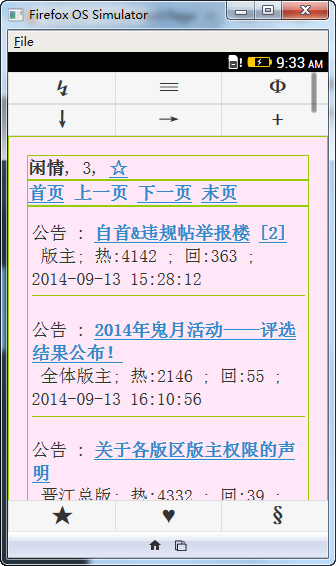
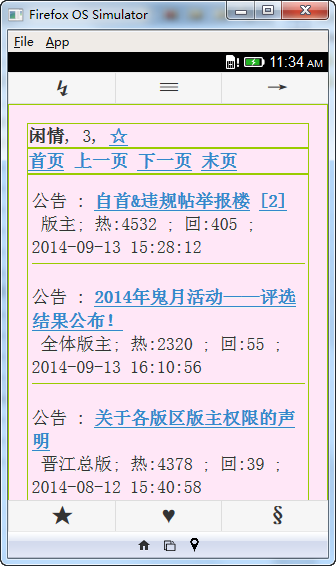
board swipeleft / swiperight

diff --git a/hjj/js/jquery.mobile-events.min.js b/hjj/js/jquery.mobile-events.min.js
@@ -1,0 +1,1 @@
+(function(e){function d(){var e=o();if(e!==u){u=e;i.trigger("orientationchange")}}function E(t,n,r,i){var s=r.type;r.type=n;e.event.dispatch.call(t,r,i);r.type=s}e.attrFn=e.attrFn||{};var t=navigator.userAgent.toLowerCase(),n=t.indexOf("chrome")>-1&&(t.indexOf("windows")>-1||t.indexOf("macintosh")>-1||t.indexOf("linux")>-1)&&t.indexOf("mobile")<0&&t.indexOf("nexus")<0,r={tap_pixel_range:5,swipe_h_threshold:50,swipe_v_threshold:50,taphold_threshold:750,doubletap_int:500,touch_capable:"ontouchstart"in document.documentElement&&!n,orientation_support:"orientation"in window&&"onorientationchange"in window,startevent:"ontouchstart"in document.documentElement&&!n?"touchstart":"mousedown",endevent:"ontouchstart"in document.documentElement&&!n?"touchend":"mouseup",moveevent:"ontouchstart"in document.documentElement&&!n?"touchmove":"mousemove",tapevent:"ontouchstart"in document.documentElement&&!n?"tap":"click",scrollevent:"ontouchstart"in document.documentElement&&!n?"touchmove":"scroll",hold_timer:null,tap_timer:null};e.isTouchCapable=function(){return r.touch_capable};e.getStartEvent=function(){return r.startevent};e.getEndEvent=function(){return r.endevent};e.getMoveEvent=function(){return r.moveevent};e.getTapEvent=function(){return r.tapevent};e.getScrollEvent=function(){return r.scrollevent};e.each(["tapstart","tapend","tap","singletap","doubletap","taphold","swipe","swipeup","swiperight","swipedown","swipeleft","swipeend","scrollstart","scrollend","orientationchange"],function(t,n){e.fn[n]=function(e){return e?this.on(n,e):this.trigger(n)};e.attrFn[n]=true});e.event.special.tapstart={setup:function(){var t=this,n=e(t);n.on(r.startevent,function(e){n.data("callee",arguments.callee);if(e.which&&e.which!==1){return false}var i=e.originalEvent,s={position:{x:r.touch_capable?i.touches[0].screenX:e.screenX,y:r.touch_capable?i.touches[0].screenY:e.screenY},offset:{x:r.touch_capable?i.touches[0].pageX-i.touches[0].target.offsetLeft:e.offsetX,y:r.touch_capable?i.touches[0].pageY-i.touches[0].target.offsetTop:e.offsetY},time:(new Date).getTime(),target:e.target};E(t,"tapstart",e,s);return true})},remove:function(){e(this).off(r.startevent,e(this).data.callee)}};e.event.special.tapmove={setup:function(){var t=this,n=e(t);n.on(r.moveevent,function(e){n.data("callee",arguments.callee);var i=e.originalEvent,s={position:{x:r.touch_capable?i.touches[0].screenX:e.screenX,y:r.touch_capable?i.touches[0].screenY:e.screenY},offset:{x:r.touch_capable?i.touches[0].pageX-i.touches[0].target.offsetLeft:e.offsetX,y:r.touch_capable?i.touches[0].pageY-i.touches[0].target.offsetTop:e.offsetY},time:(new Date).getTime(),target:e.target};E(t,"tapmove",e,s);return true})},remove:function(){e(this).off(r.moveevent,e(this).data.callee)}};e.event.special.tapend={setup:function(){var t=this,n=e(t);n.on(r.endevent,function(e){n.data("callee",arguments.callee);var i=e.originalEvent;var s={position:{x:r.touch_capable?i.changedTouches[0].screenX:e.screenX,y:r.touch_capable?i.changedTouches[0].screenY:e.screenY},offset:{x:r.touch_capable?i.changedTouches[0].pageX-i.changedTouches[0].target.offsetLeft:e.offsetX,y:r.touch_capable?i.changedTouches[0].pageY-i.changedTouches[0].target.offsetTop:e.offsetY},time:(new Date).getTime(),target:e.target};E(t,"tapend",e,s);return true})},remove:function(){e(this).off(r.endevent,e(this).data.callee)}};e.event.special.taphold={setup:function(){var t=this,n=e(t),i,s,o={x:0,y:0};n.on(r.startevent,function(e){if(e.which&&e.which!==1){return false}else{n.data("tapheld",false);i=e.target;var s=e.originalEvent;var u=(new Date).getTime(),a={x:r.touch_capable?s.touches[0].screenX:e.screenX,y:r.touch_capable?s.touches[0].screenY:e.screenY},f={x:r.touch_capable?s.touches[0].pageX-s.touches[0].target.offsetLeft:e.offsetX,y:r.touch_capable?s.touches[0].pageY-s.touches[0].target.offsetTop:e.offsetY};o.x=e.originalEvent.targetTouches?e.originalEvent.targetTouches[0].pageX:e.pageX;o.y=e.originalEvent.targetTouches?e.originalEvent.targetTouches[0].pageY:e.pageY;r.hold_timer=window.setTimeout(function(){var l=e.originalEvent.targetTouches?e.originalEvent.targetTouches[0].pageX:e.pageX,c=e.originalEvent.targetTouches?e.originalEvent.targetTouches[0].pageY:e.pageY;if(e.target==i&&o.x==l&&o.y==c){n.data("tapheld",true);var h=(new Date).getTime(),p={x:r.touch_capable?s.touches[0].screenX:e.screenX,y:r.touch_capable?s.touches[0].screenY:e.screenY},d={x:r.touch_capable?s.touches[0].pageX-s.touches[0].target.offsetLeft:e.offsetX,y:r.touch_capable?s.touches[0].pageY-s.touches[0].target.offsetTop:e.offsetY};duration=h-u;var v={startTime:u,endTime:h,startPosition:a,startOffset:f,endPosition:p,endOffset:d,duration:duration,target:e.target};n.data("callee1",arguments.callee);E(t,"taphold",e,v)}},r.taphold_threshold);return true}}).on(r.endevent,function(){n.data("callee2",arguments.callee);n.data("tapheld",false);window.clearTimeout(r.hold_timer)})},remove:function(){e(this).off(r.startevent,e(this).data.callee1).off(r.endevent,e(this).data.callee2)}};e.event.special.doubletap={setup:function(){var t=this,n=e(t),i,s,o,u;n.on(r.startevent,function(e){if(e.which&&e.which!==1){return false}else if(!n.data("lastTouch")){n.data("doubletapped",false);i=e.target;n.data("callee1",arguments.callee);u=e.originalEvent;o={position:{x:r.touch_capable?u.touches[0].screenX:e.screenX,y:r.touch_capable?u.touches[0].screenY:e.screenY},offset:{x:r.touch_capable?u.touches[0].pageX-u.touches[0].target.offsetLeft:e.offsetX,y:r.touch_capable?u.touches[0].pageY-u.touches[0].target.offsetTop:e.offsetY},time:(new Date).getTime(),target:e.target};return true}}).on(r.endevent,function(e){var u=(new Date).getTime();var a=n.data("lastTouch")||u+1;var f=u-a;window.clearTimeout(s);n.data("callee2",arguments.callee);if(f<r.doubletap_int&&f>0&&e.target==i&&f>100){n.data("doubletapped",true);window.clearTimeout(r.tap_timer);var l={position:{x:r.touch_capable?e.originalEvent.changedTouches[0].screenX:e.screenX,y:r.touch_capable?e.originalEvent.changedTouches[0].screenY:e.screenY},offset:{x:r.touch_capable?e.originalEvent.changedTouches[0].pageX-e.originalEvent.changedTouches[0].target.offsetLeft:e.offsetX,y:r.touch_capable?e.originalEvent.changedTouches[0].pageY-e.originalEvent.changedTouches[0].target.offsetTop:e.offsetY},time:(new Date).getTime(),target:e.target};var c={firstTap:o,secondTap:l,interval:l.time-o.time};E(t,"doubletap",e,c)}else{n.data("lastTouch",u);s=window.setTimeout(function(e){window.clearTimeout(s)},r.doubletap_int,[e])}n.data("lastTouch",u)})},remove:function(){e(this).off(r.startevent,e(this).data.callee1).off(r.endevent,e(this).data.callee2)}};e.event.special.singletap={setup:function(){var t=this,n=e(t),i=null,s=null,o={x:0,y:0};n.on(r.startevent,function(e){if(e.which&&e.which!==1){return false}else{s=(new Date).getTime();i=e.target;n.data("callee1",arguments.callee);o.x=e.originalEvent.targetTouches?e.originalEvent.targetTouches[0].pageX:e.pageX;o.y=e.originalEvent.targetTouches?e.originalEvent.targetTouches[0].pageY:e.pageY;return true}}).on(r.endevent,function(e){n.data("callee2",arguments.callee);if(e.target==i){end_pos_x=e.originalEvent.changedTouches?e.originalEvent.changedTouches[0].pageX:e.pageX;end_pos_y=e.originalEvent.changedTouches?e.originalEvent.changedTouches[0].pageY:e.pageY;r.tap_timer=window.setTimeout(function(){if(!n.data("doubletapped")&&!n.data("tapheld")&&o.x==end_pos_x&&o.y==end_pos_y){var i=e.originalEvent;var u={position:{x:r.touch_capable?i.changedTouches[0].screenX:e.screenX,y:r.touch_capable?i.changedTouches[0].screenY:e.screenY},offset:{x:r.touch_capable?i.changedTouches[0].pageX-i.changedTouches[0].target.offsetLeft:e.offsetX,y:r.touch_capable?i.changedTouches[0].pageY-i.changedTouches[0].target.offsetTop:e.offsetY},time:(new Date).getTime(),target:e.target};if(u.time-s<r.taphold_threshold){E(t,"singletap",e,u)}}},r.doubletap_int)}})},remove:function(){e(this).off(r.startevent,e(this).data.callee1).off(r.endevent,e(this).data.callee2)}};e.event.special.tap={setup:function(){var t=this,n=e(t),i=false,s=null,o,u={x:0,y:0};n.on(r.startevent,function(e){n.data("callee1",arguments.callee);if(e.which&&e.which!==1){return false}else{i=true;u.x=e.originalEvent.targetTouches?e.originalEvent.targetTouches[0].pageX:e.pageX;u.y=e.originalEvent.targetTouches?e.originalEvent.targetTouches[0].pageY:e.pageY;o=(new Date).getTime();s=e.target;return true}}).on(r.endevent,function(e){n.data("callee2",arguments.callee);var a=e.originalEvent.targetTouches?e.originalEvent.changedTouches[0].pageX:e.pageX,f=e.originalEvent.targetTouches?e.originalEvent.changedTouches[0].pageY:e.pageY;diff_x=u.x-a,diff_y=u.y-f;if(s==e.target&&i&&(new Date).getTime()-o<r.taphold_threshold&&(u.x==a&&u.y==f||diff_x>=-r.tap_pixel_range&&diff_x<=r.tap_pixel_range&&diff_y>=-r.tap_pixel_range&&diff_y<=r.tap_pixel_range)){var l=e.originalEvent;var c={position:{x:r.touch_capable?l.changedTouches[0].screenX:e.screenX,y:r.touch_capable?l.changedTouches[0].screenY:e.screenY},offset:{x:r.touch_capable?l.changedTouches[0].pageX-l.changedTouches[0].target.offsetLeft:e.offsetX,y:r.touch_capable?l.changedTouches[0].pageY-l.changedTouches[0].target.offsetTop:e.offsetY},time:(new Date).getTime(),target:e.target};E(t,"tap",e,c)}})},remove:function(){e(this).off(r.startevent,e(this).data.callee1).off(r.endevent,e(this).data.callee2)}};e.event.special.swipe={setup:function(){function f(t){n=e(t.target);n.data("callee1",arguments.callee);o.x=t.originalEvent.targetTouches?t.originalEvent.targetTouches[0].pageX:t.pageX;o.y=t.originalEvent.targetTouches?t.originalEvent.targetTouches[0].pageY:t.pageY;u.x=o.x;u.y=o.y;i=true;var s=t.originalEvent;a={position:{x:r.touch_capable?s.touches[0].screenX:t.screenX,y:r.touch_capable?s.touches[0].screenY:t.screenY},offset:{x:r.touch_capable?s.touches[0].pageX-s.touches[0].target.offsetLeft:t.offsetX,y:r.touch_capable?s.touches[0].pageY-s.touches[0].target.offsetTop:t.offsetY},time:(new Date).getTime(),target:t.target};var f=new Date;while(new Date-f<100){}}function l(t){n=e(t.target);n.data("callee2",arguments.callee);u.x=t.originalEvent.targetTouches?t.originalEvent.targetTouches[0].pageX:t.pageX;u.y=t.originalEvent.targetTouches?t.originalEvent.targetTouches[0].pageY:t.pageY;window.clearTimeout(r.hold_timer);var f;var l=n.data("xthreshold"),c=n.data("ythreshold"),h=typeof l!=="undefined"&&l!==false&&parseInt(l)?parseInt(l):r.swipe_h_threshold,p=typeof c!=="undefined"&&c!==false&&parseInt(c)?parseInt(c):r.swipe_v_threshold;if(o.y>u.y&&o.y-u.y>p){f="swipeup"}if(o.x<u.x&&u.x-o.x>h){f="swiperight"}if(o.y<u.y&&u.y-o.y>p){f="swipedown"}if(o.x>u.x&&o.x-u.x>h){f="swipeleft"}if(f!=undefined&&i){o.x=0;o.y=0;u.x=0;u.y=0;i=false;var d=t.originalEvent;endEvnt={position:{x:r.touch_capable?d.touches[0].screenX:t.screenX,y:r.touch_capable?d.touches[0].screenY:t.screenY},offset:{x:r.touch_capable?d.touches[0].pageX-d.touches[0].target.offsetLeft:t.offsetX,y:r.touch_capable?d.touches[0].pageY-d.touches[0].target.offsetTop:t.offsetY},time:(new Date).getTime(),target:t.target};var v=Math.abs(a.position.x-endEvnt.position.x),m=Math.abs(a.position.y-endEvnt.position.y);var g={startEvnt:a,endEvnt:endEvnt,direction:f.replace("swipe",""),xAmount:v,yAmount:m,duration:endEvnt.time-a.time};s=true;n.trigger("swipe",g).trigger(f,g)}}function c(t){n=e(t.target);var o="";n.data("callee3",arguments.callee);if(s){var u=n.data("xthreshold"),f=n.data("ythreshold"),l=typeof u!=="undefined"&&u!==false&&parseInt(u)?parseInt(u):r.swipe_h_threshold,c=typeof f!=="undefined"&&f!==false&&parseInt(f)?parseInt(f):r.swipe_v_threshold;var h=t.originalEvent;endEvnt={position:{x:r.touch_capable?h.changedTouches[0].screenX:t.screenX,y:r.touch_capable?h.changedTouches[0].screenY:t.screenY},offset:{x:r.touch_capable?h.changedTouches[0].pageX-h.changedTouches[0].target.offsetLeft:t.offsetX,y:r.touch_capable?h.changedTouches[0].pageY-h.changedTouches[0].target.offsetTop:t.offsetY},time:(new Date).getTime(),target:t.target};if(a.position.y>endEvnt.position.y&&a.position.y-endEvnt.position.y>c){o="swipeup"}if(a.position.x<endEvnt.position.x&&endEvnt.position.x-a.position.x>l){o="swiperight"}if(a.position.y<endEvnt.position.y&&endEvnt.position.y-a.position.y>c){o="swipedown"}if(a.position.x>endEvnt.position.x&&a.position.x-endEvnt.position.x>l){o="swipeleft"}var p=Math.abs(a.position.x-endEvnt.position.x),d=Math.abs(a.position.y-endEvnt.position.y);var v={startEvnt:a,endEvnt:endEvnt,direction:o.replace("swipe",""),xAmount:p,yAmount:d,duration:endEvnt.time-a.time};n.trigger("swipeend",v)}i=false;s=false}var t=this,n=e(t),i=false,s=false,o={x:0,y:0},u={x:0,y:0},a;n.on(r.startevent,f);n.on(r.moveevent,l);n.on(r.endevent,c)},remove:function(){e(this).off(r.startevent,e(this).data.callee1).off(r.moveevent,e(this).data.callee2).off(r.endevent,e(this).data.callee3)}};e.event.special.scrollstart={setup:function(){function o(e,n){i=n;E(t,i?"scrollstart":"scrollend",e)}var t=this,n=e(t),i,s;n.on(r.scrollevent,function(e){n.data("callee",arguments.callee);if(!i){o(e,true)}clearTimeout(s);s=setTimeout(function(){o(e,false)},50)})},remove:function(){e(this).off(r.scrollevent,e(this).data.callee)}};var i=e(window),s,o,u,a,f,l={0:true,180:true};if(r.orientation_support){var c=window.innerWidth||e(window).width(),h=window.innerHeight||e(window).height(),p=50;a=c>h&&c-h>p;f=l[window.orientation];if(a&&f||!a&&!f){l={"-90":true,90:true}}}e.event.special.orientationchange=s={setup:function(){if(r.orientation_support){return false}u=o();i.on("throttledresize",d);return true},teardown:function(){if(r.orientation_support){return false}i.off("throttledresize",d);return true},add:function(e){var t=e.handler;e.handler=function(e){e.orientation=o();return t.apply(this,arguments)}}};e.event.special.orientationchange.orientation=o=function(){var e=true,t=document.documentElement;if(r.orientation_support){e=l[window.orientation]}else{e=t&&t.clientWidth/t.clientHeight<1.1}return e?"portrait":"landscape"};e.event.special.throttledresize={setup:function(){e(this).on("resize",m)},teardown:function(){e(this).off("resize",m)}};var v=250,m=function(){b=(new Date).getTime();w=b-g;if(w>=v){g=b;e(this).trigger("throttledresize")}else{if(y){window.clearTimeout(y)}y=window.setTimeout(d,v-w)}},g=0,y,b,w;e.each({scrollend:"scrollstart",swipeup:"swipe",swiperight:"swipe",swipedown:"swipe",swipeleft:"swipe",swipeend:"swipe"},function(t,n,r){e.event.special[t]={setup:function(){e(this).on(n,e.noop)}}})})(jQuery)

diff --git a/README.md b/README.md
@@ -9,33 +9,29 @@ phonegap 打包的 android apk 地址：[HJJ-phonegap](https://build.phonegap.co
 
 ## 主页
 
-![home.png](home.png)
-
 顶部按钮：1）跳转到指定大院/门牌；2）版块列表、或返回主页；3）设置
-
-![home_header.png](home_header.png)
 
 底部按钮：1）收藏的版块；2）收藏的贴子；3）最近访问记录
 
-![footer.png](footer.png)
+![home.png](home.png)
+
 
 ## 版块
 
+顶部按钮：1）跳转到指定大院/门牌；2）版块列表、或返回主页；3）子版块
+
 ![board.png](board.png)
 
-顶部首行按钮：1）跳转到指定大院/门牌；2）版块列表、或返回主页；3）搜索
+### 事件
 
-顶部第2行按钮：1）子版块；2）加精/套红/加星；3）发贴
-
-![board_header.png](board_header.png)
+左/右　滑动：　搜索 / 发贴
 
 ## 贴子
 
+顶部按钮：1）跳转到指定大院/门牌；2）返回本版；3）回帖
+
 ![showmsg.png](showmsg.png)
 
-顶部首行按钮：1）跳转到指定大院/门牌；2）返回本版；3）回帖
-
-![showmsg_header.png](showmsg_header.png)
 
 基础按钮：1）缓存；2）收藏；3）跳转到上一次标记的楼层；4）刷新
 
@@ -45,11 +41,9 @@ phonegap 打包的 android apk 地址：[HJJ-phonegap](https://build.phonegap.co
 
 ![showmsg_btn_share.png](showmsg_btn_share.png)
 
-楼层按钮：1）引用此楼内容，回帖；2）直接回帖；3）标记当前楼层
-
-![showmsg_btn_reply.png](showmsg_btn_reply.png)
-
 ### 事件
+
+楼层 左/右　滑动：　直接回帖 / 引用此楼内容回帖
 
 底部 左/右 侧单击：上一页/下一页
 
